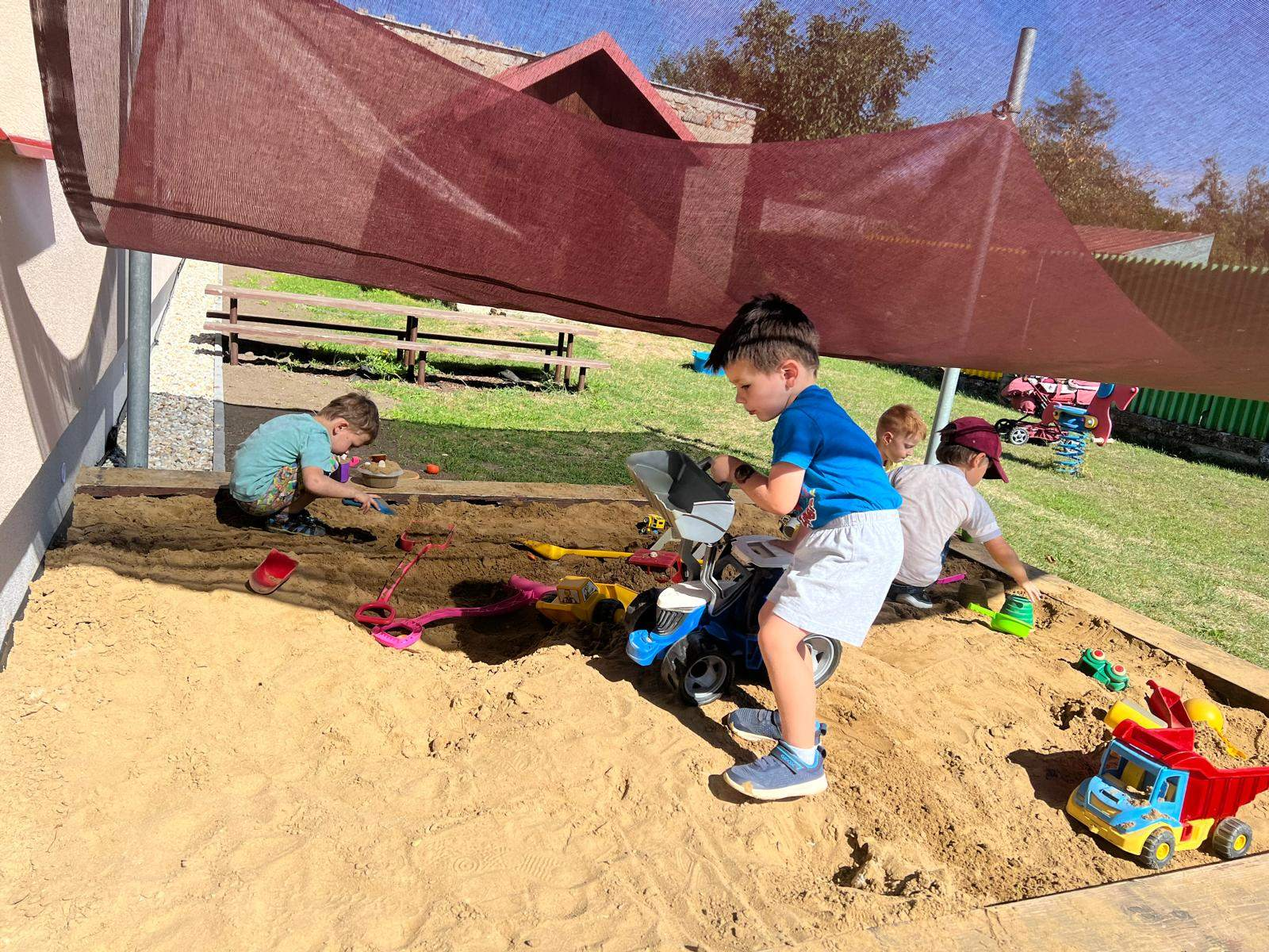
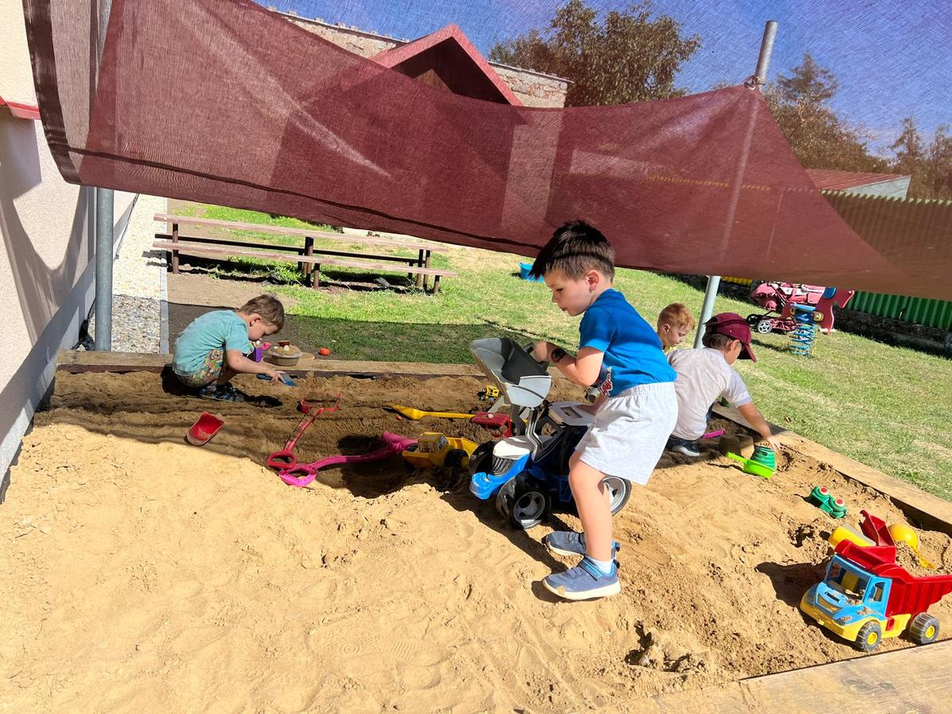
Fix hero

diff --git a/index.html b/index.html
@@ -767,14 +767,6 @@ h1,h2,h3{ font-family:var(--font-display); font-weight:340; line-height:1.04; le
   <span class="hero-scroll" aria-hidden="true">posouvej</span>
 </section>
 
-<!-- ============ MARQUEE ============ -->
-<div class="marquee" aria-hidden="true">
-  <div class="marquee-track">
-    <span>jedna třída</span><span>dvacet dětí</span><span>od roku 1939</span><span>zahrada s lanovým centrem</span><span>pohyb každý den</span><span>Želatovice</span>
-    <span>jedna třída</span><span>dvacet dětí</span><span>od roku 1939</span><span>zahrada s lanovým centrem</span><span>pohyb každý den</span><span>Želatovice</span>
-  </div>
-</div>
-
 <!-- ============ MANIFEST ============ -->
 <section class="manifest">
   <span class="orn" aria-hidden="true"></span>
